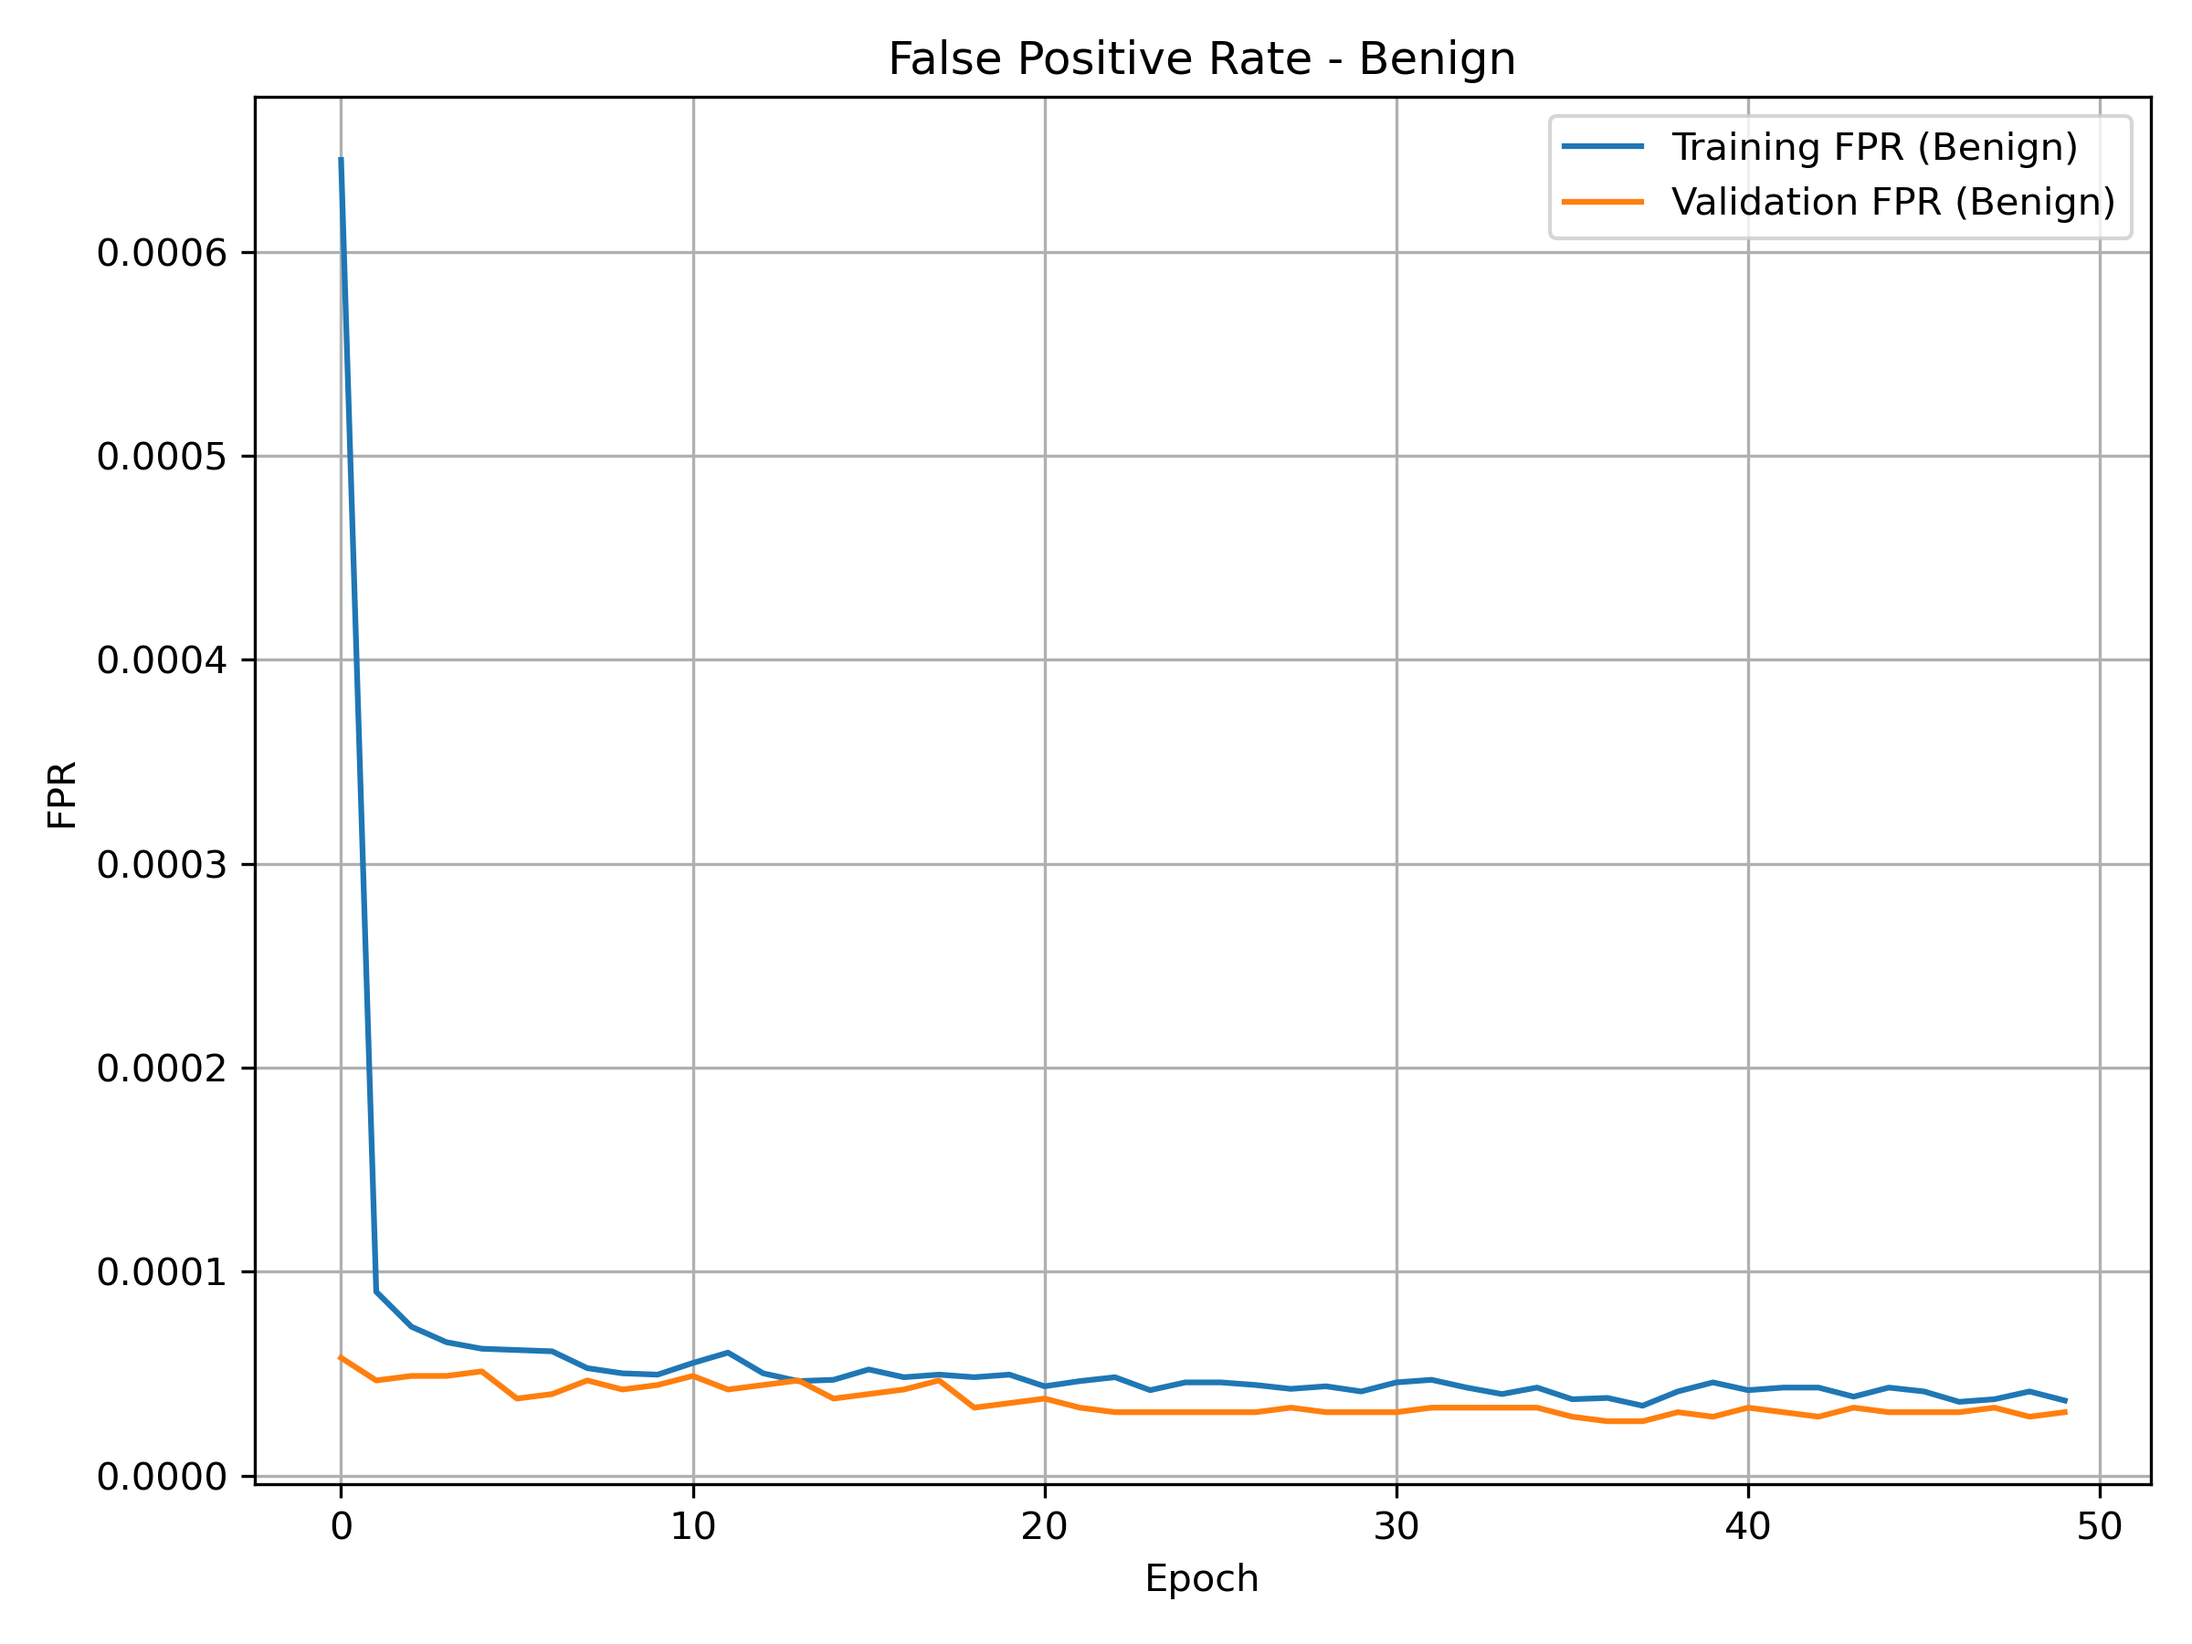
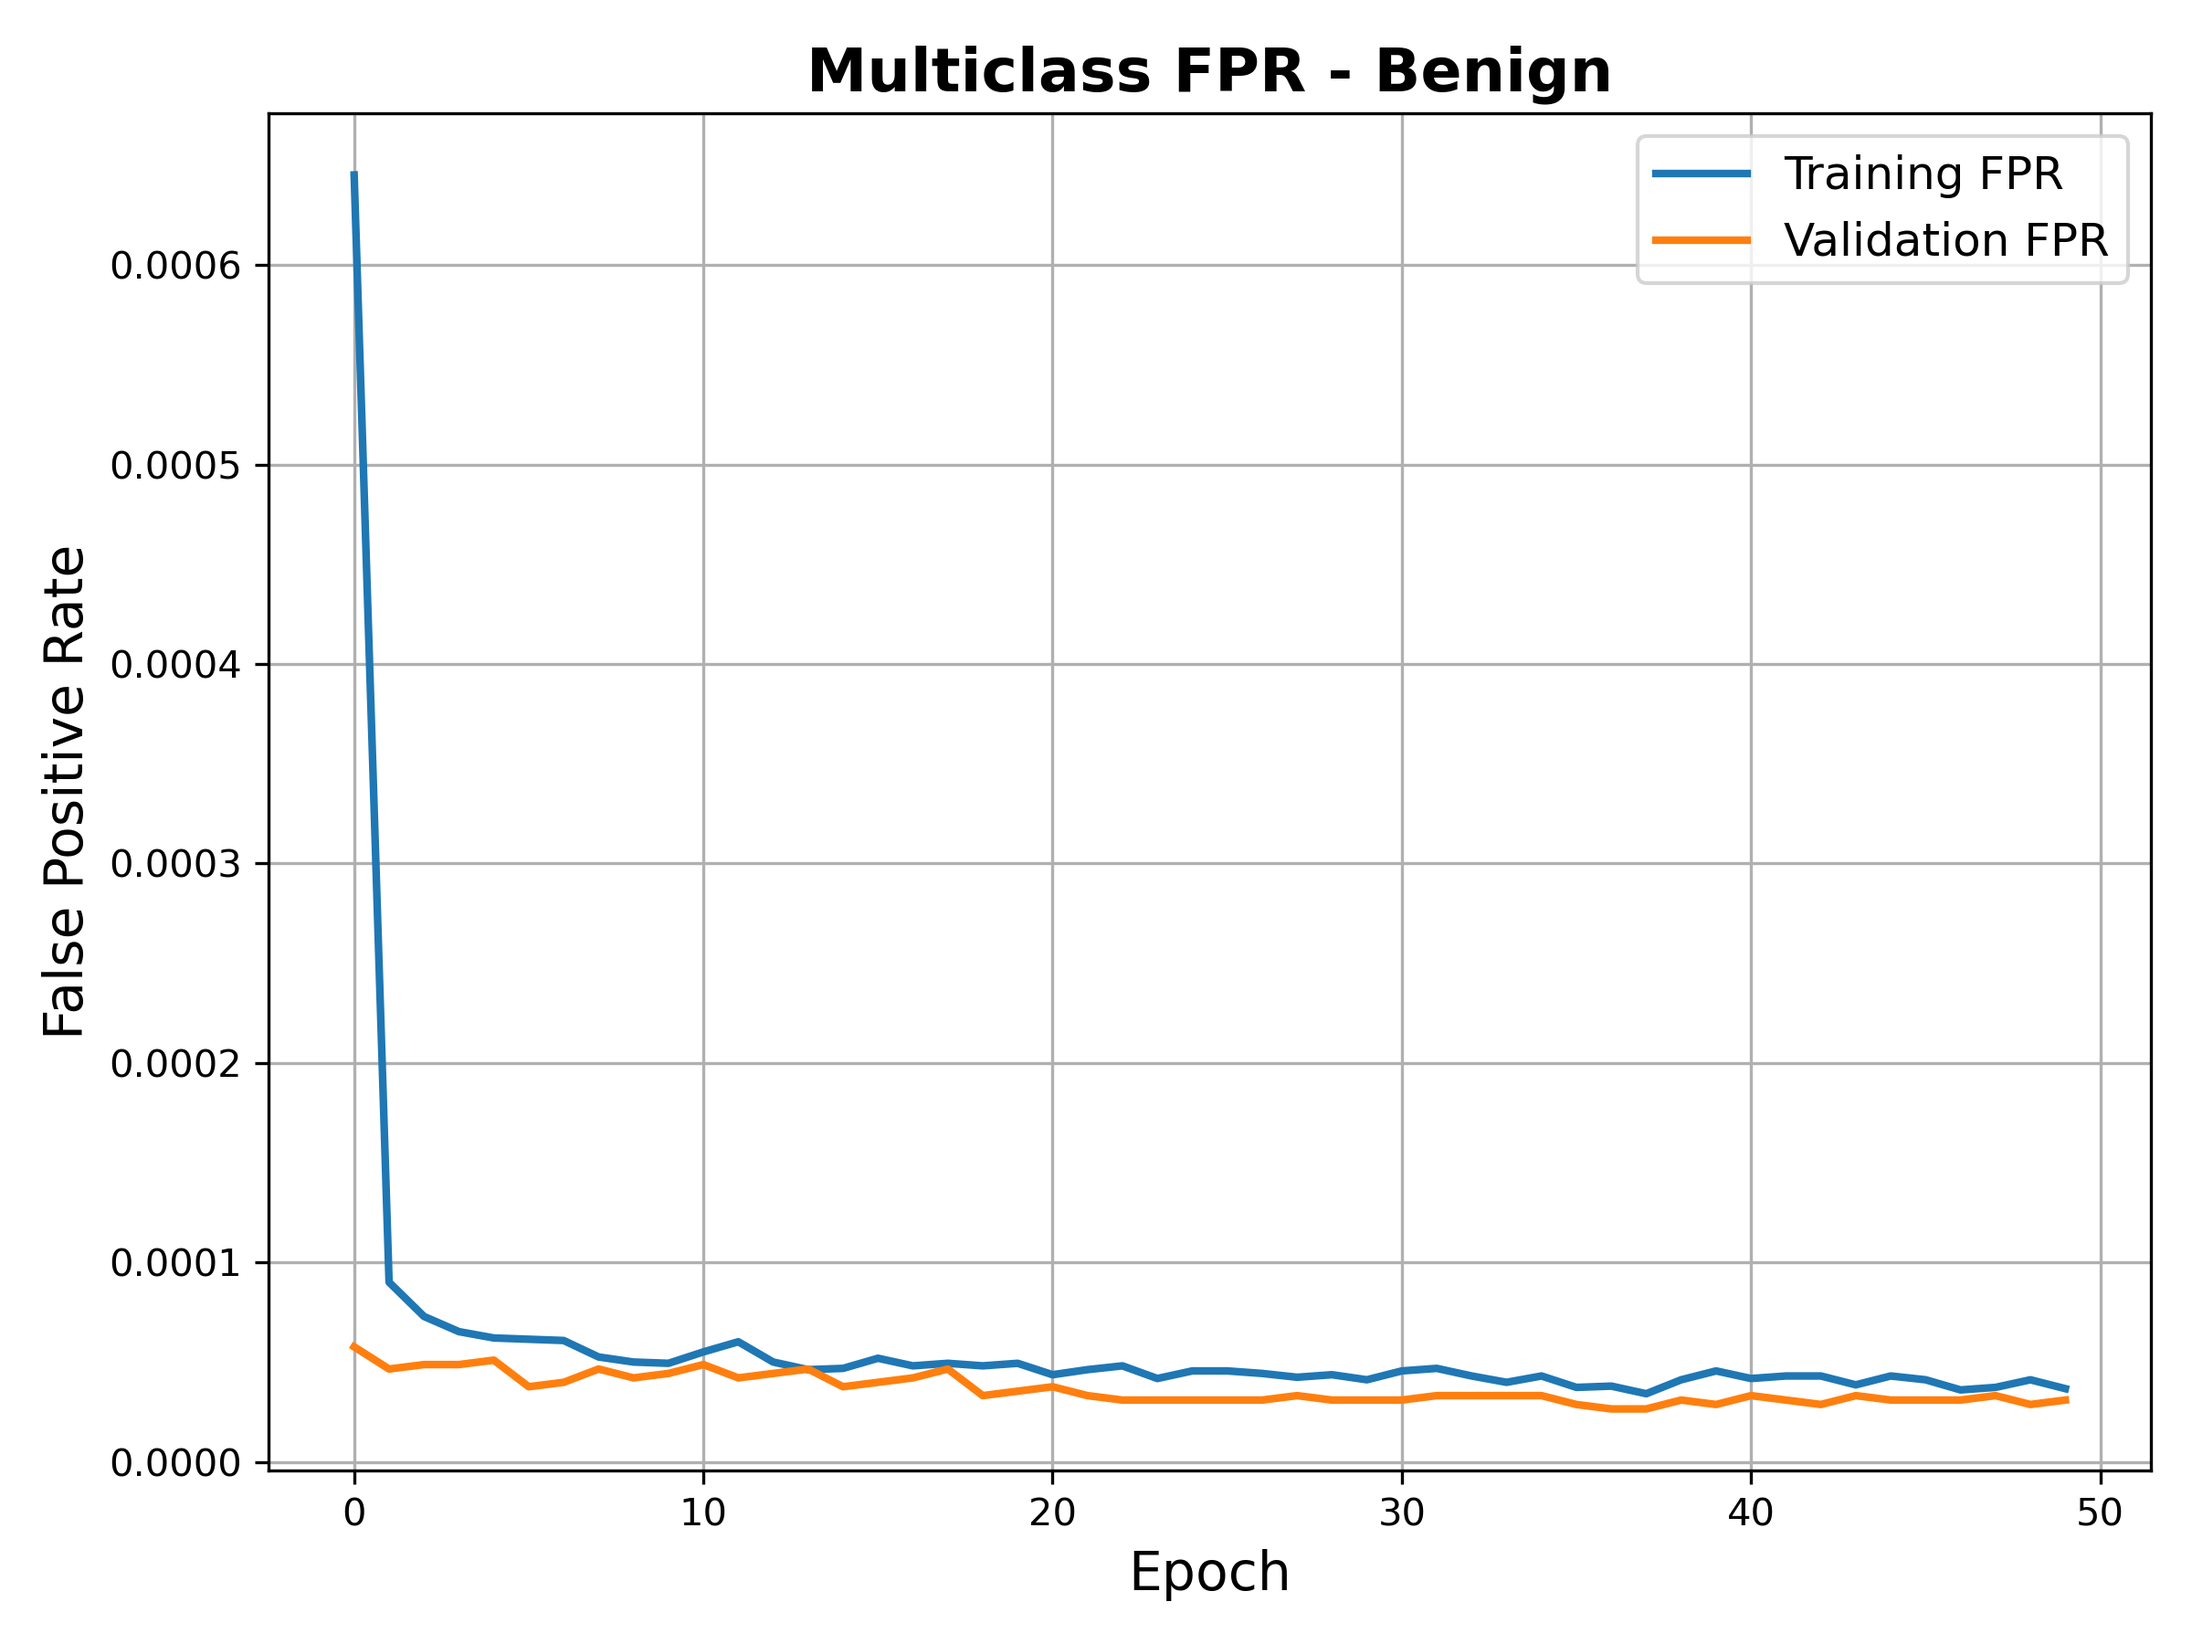
fpr graph changes

diff --git a/main-multiclass.py b/main-multiclass.py
@@ -593,7 +593,7 @@ def main():
         model.summary()
         history = train_model(model, train_dataset, val_dataset)
         metrics = evaluate_model(model, test_dataset, test_batches)
-        #plot_training_history(history)
+        plot_training_history(history)
         
         # Print summary of final results
         logger.info("========== FINAL TRAINING RESULTS ==========")
